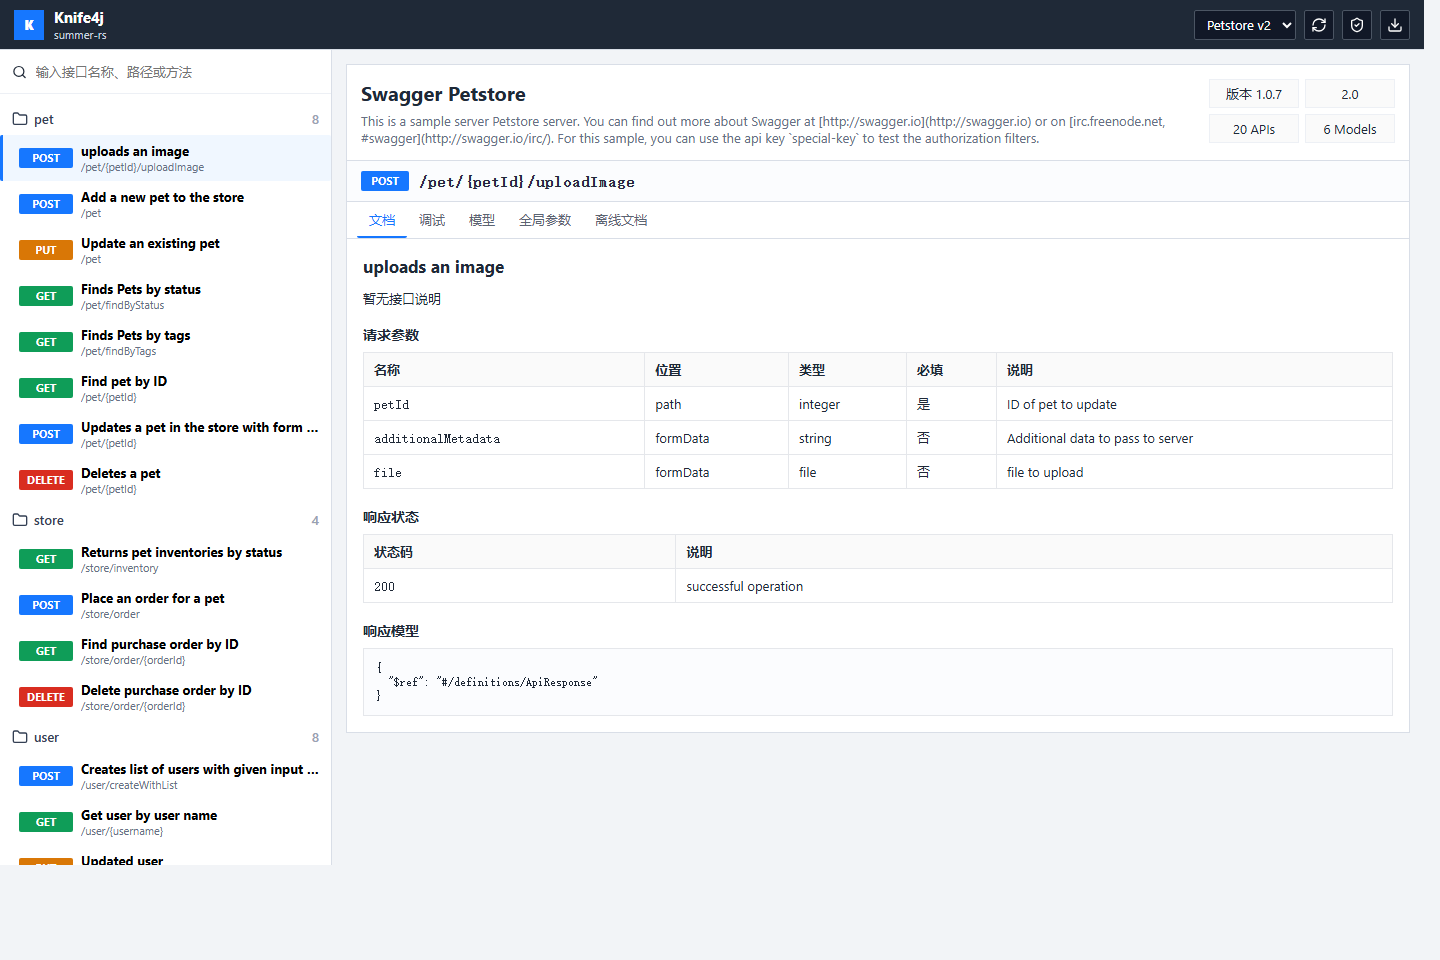
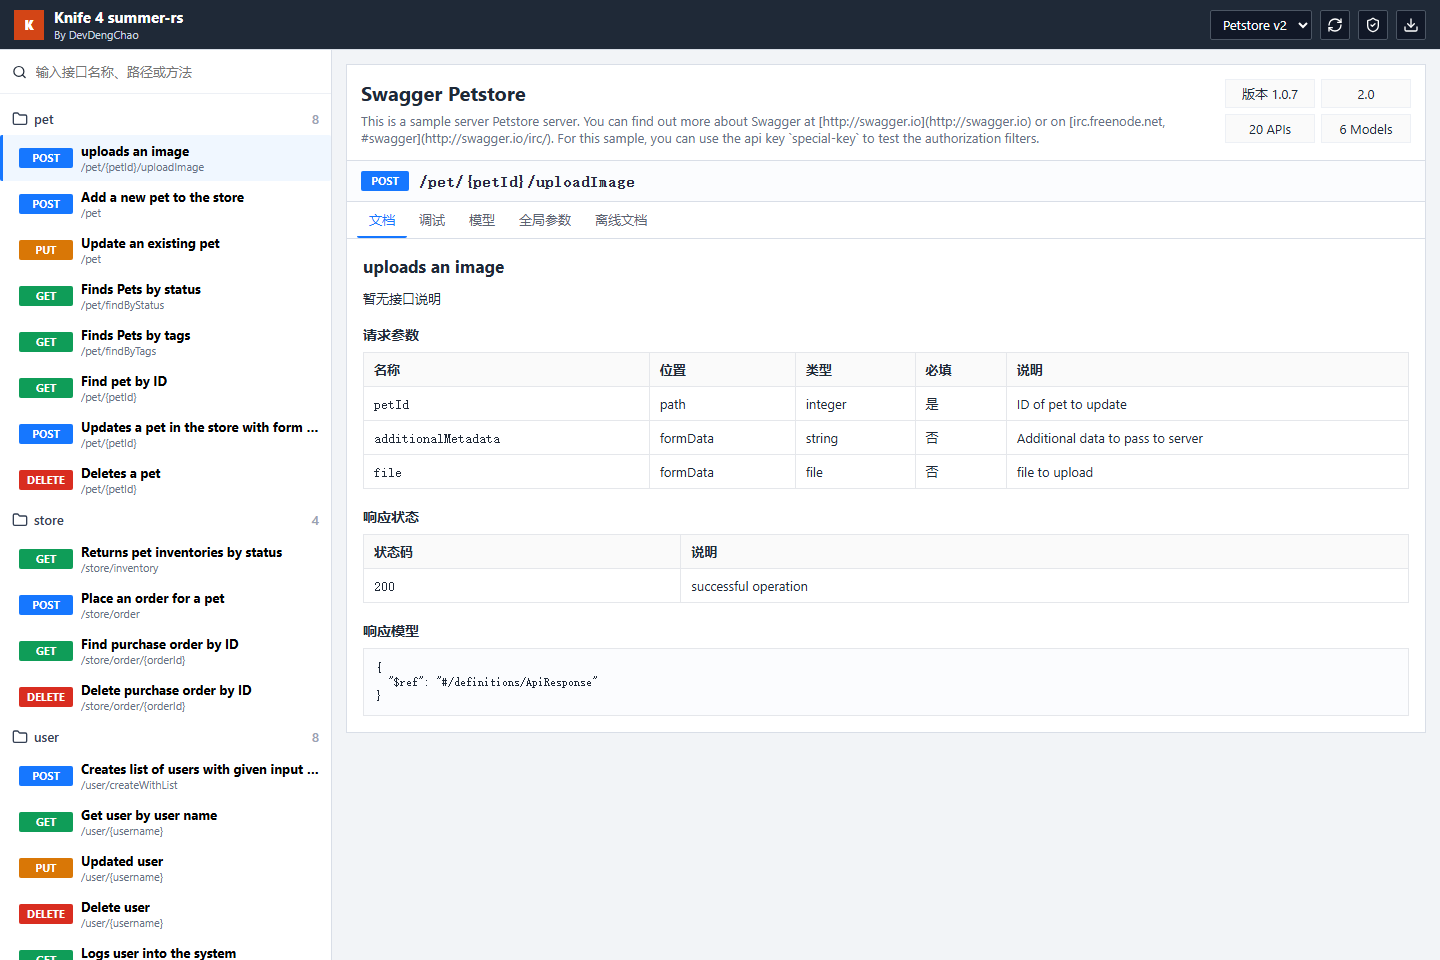
chore: refresh brand mark

diff --git a/assets/knife4j/_knife4j/entry.js b/assets/knife4j/_knife4j/entry.js
@@ -11230,7 +11230,7 @@ const revivers = [
   ["Ref", (data) => /* @__PURE__ */ ref(data)],
   ["Reactive", (data) => /* @__PURE__ */ reactive(data)]
 ];
-const revive_payload_client_huXL8waIjor8c2jpIkDYYHebko72rO3mF_tezPkF__A = /* @__PURE__ */ defineNuxtPlugin({
+const revive_payload_client_C65OzCNWnNx0WMS4opsUJLilFSaIDSgGsQ48mlVflRM = /* @__PURE__ */ defineNuxtPlugin({
   name: "nuxt:revive-payload:client",
   order: -30,
   async setup(nuxtApp) {
@@ -11468,7 +11468,7 @@ function createHead(options = {}) {
 const unheadOptions = {
   disableDefaults: true
 };
-const unhead_kZff8nTCfxHIMYD65YxHybOWSoPrAIW1uKXMBxlBcmM = /* @__PURE__ */ defineNuxtPlugin({
+const unhead_RzBWsUc4kAbuTLtCDj0Smj_9nxZhsnGdjqkaUaaPJ_k = /* @__PURE__ */ defineNuxtPlugin({
   name: "nuxt:head",
   enforce: "pre",
   setup(nuxtApp) {
@@ -13504,7 +13504,7 @@ const onNuxtReady = (callback) => {
     requestIdleCallback(() => callback());
   }
 };
-const navigation_repaint_client_d5bzCB1fhHYl2B39HPZD9V4JPnJZJShgwXqDuWhHE2s = /* @__PURE__ */ defineNuxtPlugin(() => {
+const navigation_repaint_client__dFBKtLwqa5hHnqNFKazhpcFc720TO73qAms8ECI5zY = /* @__PURE__ */ defineNuxtPlugin(() => {
   const router = useRouter();
   onNuxtReady(() => {
     router.beforeResolve(async () => {
@@ -13517,7 +13517,7 @@ const navigation_repaint_client_d5bzCB1fhHYl2B39HPZD9V4JPnJZJShgwXqDuWhHE2s = /*
     });
   });
 });
-const check_outdated_build_client_0fV_Na_HmZZENwkHS_PeWbjVFOBWywClNBbJNfQlw_o = /* @__PURE__ */ defineNuxtPlugin((nuxtApp) => {
+const check_outdated_build_client_okGd8NVwkUZotl4hIb2dR0_eggksvPWLEouHNoqALt4 = /* @__PURE__ */ defineNuxtPlugin((nuxtApp) => {
   let timeout;
   async function getLatestManifest() {
     let currentManifest;
@@ -13573,7 +13573,7 @@ function reloadNuxtApp(options = {}) {
     }
   }
 }
-const chunk_reload_client_h3mdx9Jjsj_WXuglLXoFmx6v_5DJKO9gBjvXhIYp9qQ = /* @__PURE__ */ defineNuxtPlugin({
+const chunk_reload_client_KPIgSuW8nlFz0ibHJZsfgHW2759AkJpafFG1yDUGspc = /* @__PURE__ */ defineNuxtPlugin({
   name: "nuxt:chunk-reload",
   setup(nuxtApp) {
     const router = useRouter();
@@ -13633,7 +13633,7 @@ async function preloadRouteComponents(to, router = useRouter()) {
   }
   await Promise.all(promises);
 }
-const prefetch_client_KGnXkp2ch2sTC2sjd9mqL39K3e4H619hWOzuMdNJDnc = /* @__PURE__ */ defineNuxtPlugin({
+const prefetch_client_eLReVWvo5VR6t_fEKzGr8sI0o_5tjnR8kcBKMS19kR8 = /* @__PURE__ */ defineNuxtPlugin({
   name: "nuxt:prefetch",
   setup(nuxtApp) {
     const router = useRouter();
@@ -13670,14 +13670,14 @@ const prefetch_client_KGnXkp2ch2sTC2sjd9mqL39K3e4H619hWOzuMdNJDnc = /* @__PURE__
 const unocss_6Z4vW7S9aX_q2svWbGBc_X2b5QbQdkNmvzr_3kqqCd0 = /* @__PURE__ */ defineNuxtPlugin(() => {
 });
 const plugins = [
-  revive_payload_client_huXL8waIjor8c2jpIkDYYHebko72rO3mF_tezPkF__A,
-  unhead_kZff8nTCfxHIMYD65YxHybOWSoPrAIW1uKXMBxlBcmM,
+  revive_payload_client_C65OzCNWnNx0WMS4opsUJLilFSaIDSgGsQ48mlVflRM,
+  unhead_RzBWsUc4kAbuTLtCDj0Smj_9nxZhsnGdjqkaUaaPJ_k,
   plugin,
-  navigation_repaint_client_d5bzCB1fhHYl2B39HPZD9V4JPnJZJShgwXqDuWhHE2s,
-  check_outdated_build_client_0fV_Na_HmZZENwkHS_PeWbjVFOBWywClNBbJNfQlw_o,
-  chunk_reload_client_h3mdx9Jjsj_WXuglLXoFmx6v_5DJKO9gBjvXhIYp9qQ,
+  navigation_repaint_client__dFBKtLwqa5hHnqNFKazhpcFc720TO73qAms8ECI5zY,
+  check_outdated_build_client_okGd8NVwkUZotl4hIb2dR0_eggksvPWLEouHNoqALt4,
+  chunk_reload_client_KPIgSuW8nlFz0ibHJZsfgHW2759AkJpafFG1yDUGspc,
   components_plugin_4kY4pyzJIYX99vmMAAIorFf3CnAaptHitJgf7JxiED8,
-  prefetch_client_KGnXkp2ch2sTC2sjd9mqL39K3e4H619hWOzuMdNJDnc,
+  prefetch_client_eLReVWvo5VR6t_fEKzGr8sI0o_5tjnR8kcBKMS19kR8,
   unocss_6Z4vW7S9aX_q2svWbGBc_X2b5QbQdkNmvzr_3kqqCd0
 ];
 const defineRouteProvider = (name = "RouteProvider") => /* @__PURE__ */ defineComponent({

diff --git a/frontend/components/Knife4jConsole.vue b/frontend/components/Knife4jConsole.vue
@@ -42,9 +42,14 @@ function downloadExport(kind: 'json' | 'markdown' | 'html' | 'word') {
     <header class="topbar">
       <div class="brand">
         <div class="brand-mark">K</div>
-        <div>
-          <strong>Knife4j</strong>
-          <span>summer-rs</span>
+        <div class="brand-copy">
+          <strong>Knife 4 summer-rs</strong>
+          <a
+            href="https://github.com/DevDengChao/knife-4-summer-rs"
+            target="_blank"
+            rel="noopener noreferrer"
+            >By DevDengChao</a
+          >
         </div>
       </div>
       <nav class="toolbar">
@@ -400,7 +405,7 @@ button {
   width: 30px;
   height: 30px;
   place-items: center;
-  background: #1677ff;
+  background: #d34516;
   font-weight: 800;
 }
 
@@ -409,10 +414,16 @@ button {
   font-size: 15px;
 }
 
-.brand span {
+.brand a {
   display: block;
   color: #cbd5e1;
   font-size: 11px;
+  text-decoration: none;
+}
+
+.brand a:hover {
+  color: #fff;
+  text-decoration: underline;
 }
 
 .toolbar {

diff --git a/frontend/tests/brand.test.ts b/frontend/tests/brand.test.ts
@@ -1,0 +1,21 @@
+import { readFileSync } from 'node:fs'
+import { describe, expect, it } from 'vitest'
+
+const componentSource = readFileSync(
+  new URL('../components/Knife4jConsole.vue', import.meta.url),
+  'utf8'
+)
+
+describe('Knife4j brand bar', () => {
+  it('shows the summer-rs brand and links the repository in a new window', () => {
+    expect(componentSource).toContain('<strong>Knife 4 summer-rs</strong>')
+    expect(componentSource).toContain('href="https://github.com/DevDengChao/knife-4-summer-rs"')
+    expect(componentSource).toContain('target="_blank"')
+    expect(componentSource).toContain('rel="noopener noreferrer"')
+    expect(componentSource).toMatch(/>\s*By DevDengChao\s*<\/a/)
+  })
+
+  it('uses the Rust orange brand color on the mark background', () => {
+    expect(componentSource).toContain('background: #d34516;')
+  })
+})

diff --git a/assets/knife4j/_knife4j/Knife4jConsole.js b/assets/knife4j/_knife4j/Knife4jConsole.js
@@ -622,9 +622,13 @@ const _sfc_main = /* @__PURE__ */ defineComponent({
         createBaseVNode("header", _hoisted_2, [
           _cache[17] || (_cache[17] = createBaseVNode("div", { class: "brand" }, [
             createBaseVNode("div", { class: "brand-mark" }, "K"),
-            createBaseVNode("div", null, [
-              createBaseVNode("strong", null, "Knife4j"),
-              createBaseVNode("span", null, "summer-rs")
+            createBaseVNode("div", { class: "brand-copy" }, [
+              createBaseVNode("strong", null, "Knife 4 summer-rs"),
+              createBaseVNode("a", {
+                href: "https://github.com/DevDengChao/knife-4-summer-rs",
+                target: "_blank",
+                rel: "noopener noreferrer"
+              }, "By DevDengChao")
             ])
           ], -1)),
           createBaseVNode("nav", _hoisted_3, [

diff --git a/assets/knife4j/_knife4j/Knife4jConsole.css b/assets/knife4j/_knife4j/Knife4jConsole.css
@@ -1,1 +1,1 @@
-.method-badge[data-v-c10db21f]{align-items:center;border-radius:2px;color:#fff;display:inline-flex;font-size:11px;font-weight:700;height:20px;justify-content:center;line-height:20px;min-width:48px}.method-get[data-v-c10db21f]{background:#0f9d58}.method-post[data-v-c10db21f]{background:#1677ff}.method-put[data-v-c10db21f]{background:#d97706}.method-delete[data-v-c10db21f]{background:#d92d20}.method-patch[data-v-c10db21f]{background:#7c3aed}.method-head[data-v-c10db21f],.method-options[data-v-c10db21f],.method-trace[data-v-c10db21f]{background:#475467}.schema-table-wrap[data-v-071ab5d7]{border:1px solid #e5e7eb;overflow:auto}.schema-table[data-v-071ab5d7]{border-collapse:collapse;font-size:13px;width:100%}.schema-table td[data-v-071ab5d7],.schema-table th[data-v-071ab5d7]{border-bottom:1px solid #e5e7eb;padding:8px 10px;text-align:left;vertical-align:top}.schema-table th[data-v-071ab5d7]{background:#fafafa;color:#344054;font-weight:600}.schema-empty[data-v-071ab5d7]{background:#fbfcfe;border:1px solid #e5e7eb;font-size:12px;margin:0;overflow:auto;padding:12px}#__nuxt,body,html{height:100%;margin:0}body{background:#f2f4f7;color:#1f2937;font-family:-apple-system,BlinkMacSystemFont,Segoe UI,Microsoft YaHei,sans-serif;font-size:13px;letter-spacing:0}button,input,select,textarea{border-radius:2px;font:inherit}button{cursor:pointer}.knife-shell{display:grid;grid-template-areas:"topbar topbar" "sidebar content";grid-template-columns:332px minmax(0,1fr);grid-template-rows:50px minmax(0,1fr);height:100%}.topbar{background:#1f2937;border-bottom:1px solid #d9dee7;color:#fff;grid-area:topbar;justify-content:space-between;padding:0 14px}.brand,.topbar{align-items:center;display:flex}.brand{gap:10px}.brand-mark{background:#1677ff;display:grid;font-weight:800;height:30px;place-items:center;width:30px}.brand strong{display:block;font-size:15px}.brand span{color:#cbd5e1;display:block;font-size:11px}.toolbar{align-items:center;display:flex;gap:8px}.group-select{background:#111827;border:1px solid #4b5563;color:#fff;height:30px;padding:0 8px}.icon-button{background:#111827;border:1px solid #4b5563;color:#fff;display:grid;height:30px;place-items:center;width:30px}.sidebar{background:#fff;border-right:1px solid #d9dee7;grid-area:sidebar;min-height:0}.search-wrap{align-items:center;border-bottom:1px solid #edf0f5;display:flex;gap:7px;height:43px;padding:0 12px}.search-wrap input{border:0;outline:none;width:100%}.sidebar-scroll{height:calc(100% - 44px);overflow:auto;padding:8px 0}.tag-title{align-items:center;color:#344054;display:flex;font-weight:600;gap:6px;padding:8px 12px}.tag-title em{color:#98a2b3;font-style:normal;margin-left:auto}.operation-link{align-items:center;background:#fff;border:0;border-left:3px solid transparent;display:grid;gap:8px;grid-template-columns:54px minmax(0,1fr);padding:7px 10px 7px 16px;text-align:left;width:100%}.operation-link.active,.operation-link:hover{background:#f0f7ff;border-left-color:#1677ff}.operation-text{min-width:0}.operation-text small,.operation-text strong{display:block;overflow:hidden;text-overflow:ellipsis;white-space:nowrap}.operation-text small{color:#667085}.content{grid-area:content;min-height:0;min-width:0;overflow:auto;padding:14px}.state-box{align-items:center;background:#fff;border:1px solid #d9dee7;display:flex;gap:8px;padding:16px}.state-box.error{border-color:#fda29b;color:#b42318}.spin{animation:spin 1s linear infinite}.api-summary{align-items:flex-start;background:#fff;border:1px solid #d9dee7;display:flex;justify-content:space-between;padding:14px}.api-summary h1{font-size:20px;margin:0 0 6px}.api-summary p{color:#667085;margin:0}.meta-grid{display:grid;gap:6px;grid-template-columns:repeat(2,minmax(90px,1fr))}.meta-grid span{background:#fafafa;border:1px solid #edf0f5;padding:5px 8px;text-align:center}.operation-head{align-items:center;background:#fbfcfe;border:1px solid #d9dee7;border-top:0;display:flex;gap:10px;padding:10px 14px}.operation-head code{font-size:15px;font-weight:600}.deprecated{background:#fff1f3;color:#c01048;padding:2px 6px}.tabs{display:flex;padding:0 10px}.panel,.tabs{background:#fff;border:1px solid #d9dee7;border-top:0}.panel{padding:16px}.panel h2{font-size:17px;margin:0 0 8px}.panel h3{font-size:14px;margin:18px 0 8px}.data-table{border-collapse:collapse;width:100%}.data-table td,.data-table th{border:1px solid #e5e7eb;padding:8px 10px;text-align:left;vertical-align:top}.data-table th{background:#fafafa}.debug-panel{display:grid;gap:12px;grid-template-columns:minmax(0,1fr) 280px}.debug-url{display:flex;gap:8px;grid-column:1/2}.debug-url input{flex:1}.debug-params{display:grid;gap:8px}.debug-params h3{margin:0}.debug-param-row{align-items:center;display:grid;gap:8px;grid-template-columns:64px minmax(80px,160px) minmax(0,1fr)}.debug-param-row span{color:#667085;text-transform:uppercase}.request-editor{border:1px solid #d9d9d9;font-family:Cascadia Code,Consolas,monospace;min-height:180px;padding:10px;resize:vertical}.response-box{border:1px solid #d9dee7;overflow:hidden}.response-head{background:#f9fafb;display:flex;justify-content:space-between;padding:8px 10px}.response-box pre{font-family:Cascadia Code,Consolas,monospace;margin:0;max-height:260px;overflow:auto;padding:10px;white-space:pre-wrap}.history-list{border-left:1px solid #edf0f5;grid-column:2;grid-row:1/span 3;padding-left:12px}.history-list div{border-bottom:1px solid #edf0f5;display:grid;gap:6px;grid-template-columns:48px 44px minmax(0,1fr);padding:7px 0}.history-list small{overflow:hidden;text-overflow:ellipsis;white-space:nowrap}.export-grid,.model-list{display:flex;flex-wrap:wrap;gap:8px;margin-bottom:14px}.export-action,.model-pill{background:#fbfcfe;border:1px solid #d9dee7;padding:8px 10px}.model-pill.active{background:#f0f7ff;border-color:#1677ff;color:#0958d9}.settings-grid{display:grid;gap:20px;grid-template-columns:repeat(2,minmax(0,1fr))}.setting-row{align-items:center;display:grid;gap:8px;grid-template-columns:22px minmax(90px,130px) minmax(0,1fr);margin-bottom:8px}.settings-grid>div:nth-child(2) .setting-row{grid-template-columns:22px 90px minmax(90px,1fr) minmax(0,1fr)}@keyframes spin{to{transform:rotate(1turn)}}@media (max-width:860px){.knife-shell{grid-template-areas:"topbar" "content";grid-template-columns:1fr}.sidebar{display:none}.api-summary,.debug-panel,.settings-grid{display:block}.history-list{border-left:0;padding-left:0}}
+.method-badge[data-v-c10db21f]{align-items:center;border-radius:2px;color:#fff;display:inline-flex;font-size:11px;font-weight:700;height:20px;justify-content:center;line-height:20px;min-width:48px}.method-get[data-v-c10db21f]{background:#0f9d58}.method-post[data-v-c10db21f]{background:#1677ff}.method-put[data-v-c10db21f]{background:#d97706}.method-delete[data-v-c10db21f]{background:#d92d20}.method-patch[data-v-c10db21f]{background:#7c3aed}.method-head[data-v-c10db21f],.method-options[data-v-c10db21f],.method-trace[data-v-c10db21f]{background:#475467}.schema-table-wrap[data-v-071ab5d7]{border:1px solid #e5e7eb;overflow:auto}.schema-table[data-v-071ab5d7]{border-collapse:collapse;font-size:13px;width:100%}.schema-table td[data-v-071ab5d7],.schema-table th[data-v-071ab5d7]{border-bottom:1px solid #e5e7eb;padding:8px 10px;text-align:left;vertical-align:top}.schema-table th[data-v-071ab5d7]{background:#fafafa;color:#344054;font-weight:600}.schema-empty[data-v-071ab5d7]{background:#fbfcfe;border:1px solid #e5e7eb;font-size:12px;margin:0;overflow:auto;padding:12px}#__nuxt,body,html{height:100%;margin:0}body{background:#f2f4f7;color:#1f2937;font-family:-apple-system,BlinkMacSystemFont,Segoe UI,Microsoft YaHei,sans-serif;font-size:13px;letter-spacing:0}button,input,select,textarea{border-radius:2px;font:inherit}button{cursor:pointer}.knife-shell{display:grid;grid-template-areas:"topbar topbar" "sidebar content";grid-template-columns:332px minmax(0,1fr);grid-template-rows:50px minmax(0,1fr);height:100%}.topbar{background:#1f2937;border-bottom:1px solid #d9dee7;color:#fff;grid-area:topbar;justify-content:space-between;padding:0 14px}.brand,.topbar{align-items:center;display:flex}.brand{gap:10px}.brand-mark{background:#d34516;display:grid;font-weight:800;height:30px;place-items:center;width:30px}.brand strong{display:block;font-size:15px}.brand a{color:#cbd5e1;display:block;font-size:11px;text-decoration:none}.brand a:hover{color:#fff;text-decoration:underline}.toolbar{align-items:center;display:flex;gap:8px}.group-select{background:#111827;border:1px solid #4b5563;color:#fff;height:30px;padding:0 8px}.icon-button{background:#111827;border:1px solid #4b5563;color:#fff;display:grid;height:30px;place-items:center;width:30px}.sidebar{background:#fff;border-right:1px solid #d9dee7;grid-area:sidebar;min-height:0}.search-wrap{align-items:center;border-bottom:1px solid #edf0f5;display:flex;gap:7px;height:43px;padding:0 12px}.search-wrap input{border:0;outline:none;width:100%}.sidebar-scroll{height:calc(100% - 44px);overflow:auto;padding:8px 0}.tag-title{align-items:center;color:#344054;display:flex;font-weight:600;gap:6px;padding:8px 12px}.tag-title em{color:#98a2b3;font-style:normal;margin-left:auto}.operation-link{align-items:center;background:#fff;border:0;border-left:3px solid transparent;display:grid;gap:8px;grid-template-columns:54px minmax(0,1fr);padding:7px 10px 7px 16px;text-align:left;width:100%}.operation-link.active,.operation-link:hover{background:#f0f7ff;border-left-color:#1677ff}.operation-text{min-width:0}.operation-text small,.operation-text strong{display:block;overflow:hidden;text-overflow:ellipsis;white-space:nowrap}.operation-text small{color:#667085}.content{grid-area:content;min-height:0;min-width:0;overflow:auto;padding:14px}.state-box{align-items:center;background:#fff;border:1px solid #d9dee7;display:flex;gap:8px;padding:16px}.state-box.error{border-color:#fda29b;color:#b42318}.spin{animation:spin 1s linear infinite}.api-summary{align-items:flex-start;background:#fff;border:1px solid #d9dee7;display:flex;justify-content:space-between;padding:14px}.api-summary h1{font-size:20px;margin:0 0 6px}.api-summary p{color:#667085;margin:0}.meta-grid{display:grid;gap:6px;grid-template-columns:repeat(2,minmax(90px,1fr))}.meta-grid span{background:#fafafa;border:1px solid #edf0f5;padding:5px 8px;text-align:center}.operation-head{align-items:center;background:#fbfcfe;border:1px solid #d9dee7;border-top:0;display:flex;gap:10px;padding:10px 14px}.operation-head code{font-size:15px;font-weight:600}.deprecated{background:#fff1f3;color:#c01048;padding:2px 6px}.tabs{display:flex;padding:0 10px}.panel,.tabs{background:#fff;border:1px solid #d9dee7;border-top:0}.panel{padding:16px}.panel h2{font-size:17px;margin:0 0 8px}.panel h3{font-size:14px;margin:18px 0 8px}.data-table{border-collapse:collapse;width:100%}.data-table td,.data-table th{border:1px solid #e5e7eb;padding:8px 10px;text-align:left;vertical-align:top}.data-table th{background:#fafafa}.debug-panel{display:grid;gap:12px;grid-template-columns:minmax(0,1fr) 280px}.debug-url{display:flex;gap:8px;grid-column:1/2}.debug-url input{flex:1}.debug-params{display:grid;gap:8px}.debug-params h3{margin:0}.debug-param-row{align-items:center;display:grid;gap:8px;grid-template-columns:64px minmax(80px,160px) minmax(0,1fr)}.debug-param-row span{color:#667085;text-transform:uppercase}.request-editor{border:1px solid #d9d9d9;font-family:Cascadia Code,Consolas,monospace;min-height:180px;padding:10px;resize:vertical}.response-box{border:1px solid #d9dee7;overflow:hidden}.response-head{background:#f9fafb;display:flex;justify-content:space-between;padding:8px 10px}.response-box pre{font-family:Cascadia Code,Consolas,monospace;margin:0;max-height:260px;overflow:auto;padding:10px;white-space:pre-wrap}.history-list{border-left:1px solid #edf0f5;grid-column:2;grid-row:1/span 3;padding-left:12px}.history-list div{border-bottom:1px solid #edf0f5;display:grid;gap:6px;grid-template-columns:48px 44px minmax(0,1fr);padding:7px 0}.history-list small{overflow:hidden;text-overflow:ellipsis;white-space:nowrap}.export-grid,.model-list{display:flex;flex-wrap:wrap;gap:8px;margin-bottom:14px}.export-action,.model-pill{background:#fbfcfe;border:1px solid #d9dee7;padding:8px 10px}.model-pill.active{background:#f0f7ff;border-color:#1677ff;color:#0958d9}.settings-grid{display:grid;gap:20px;grid-template-columns:repeat(2,minmax(0,1fr))}.setting-row{align-items:center;display:grid;gap:8px;grid-template-columns:22px minmax(90px,130px) minmax(0,1fr);margin-bottom:8px}.settings-grid>div:nth-child(2) .setting-row{grid-template-columns:22px 90px minmax(90px,1fr) minmax(0,1fr)}@keyframes spin{to{transform:rotate(1turn)}}@media (max-width:860px){.knife-shell{grid-template-areas:"topbar" "content";grid-template-columns:1fr}.sidebar{display:none}.api-summary,.debug-panel,.settings-grid{display:block}.history-list{border-left:0;padding-left:0}}

diff --git a/assets/knife4j/_knife4j/error-404.css b/assets/knife4j/_knife4j/error-404.css
@@ -1,1 +1,1 @@
-.grid[data-v-ca48caf0]{display:grid}.mb-2[data-v-ca48caf0]{margin-bottom:.5rem}.mb-4[data-v-ca48caf0]{margin-bottom:1rem}.max-w-520px[data-v-ca48caf0]{max-width:520px}.min-h-screen[data-v-ca48caf0]{min-height:100vh}.w-full[data-v-ca48caf0]{width:100%}.flex[data-v-ca48caf0]{display:flex}.place-content-center[data-v-ca48caf0]{place-content:center}.items-center[data-v-ca48caf0]{align-items:center}.justify-center[data-v-ca48caf0]{justify-content:center}.overflow-hidden[data-v-ca48caf0]{overflow:hidden}.bg-white[data-v-ca48caf0]{--un-bg-opacity:1;background-color:rgb(255 255 255/var(--un-bg-opacity))}.px-2[data-v-ca48caf0]{padding-left:.5rem;padding-right:.5rem}.text-center[data-v-ca48caf0]{text-align:center}.text-\[80px\][data-v-ca48caf0]{font-size:80px}.text-2xl[data-v-ca48caf0]{font-size:1.5rem;line-height:2rem}.text-sm[data-v-ca48caf0]{font-size:.875rem;line-height:1.25rem}.text-\[\#020420\][data-v-ca48caf0]{--un-text-opacity:1;color:rgb(2 4 32/var(--un-text-opacity))}.text-\[\#64748B\][data-v-ca48caf0]{--un-text-opacity:1;color:rgb(100 116 139/var(--un-text-opacity))}.hover\:text-\[\#00DC82\][data-v-ca48caf0]:hover{--un-text-opacity:1;color:rgb(0 220 130/var(--un-text-opacity))}.font-medium[data-v-ca48caf0]{font-weight:500}.font-semibold[data-v-ca48caf0]{font-weight:600}.leading-none[data-v-ca48caf0]{line-height:1}.tracking-wide[data-v-ca48caf0]{letter-spacing:.025em}.font-sans[data-v-ca48caf0]{font-family:ui-sans-serif,system-ui,-apple-system,BlinkMacSystemFont,Segoe UI,Roboto,Helvetica Neue,Arial,Noto Sans,sans-serif,Apple Color Emoji,Segoe UI Emoji,Segoe UI Symbol,Noto Color Emoji}.tabular-nums[data-v-ca48caf0]{--un-numeric-spacing:tabular-nums;font-variant-numeric:var(--un-ordinal) var(--un-slashed-zero) var(--un-numeric-figure) var(--un-numeric-spacing) var(--un-numeric-fraction)}.underline[data-v-ca48caf0]{text-decoration-line:underline}.underline-offset-3[data-v-ca48caf0]{text-underline-offset:3px}.antialiased[data-v-ca48caf0]{-webkit-font-smoothing:antialiased;-moz-osx-font-smoothing:grayscale}@media(prefers-color-scheme:dark){.dark\:bg-\[\#020420\][data-v-ca48caf0]{--un-bg-opacity:1;background-color:rgb(2 4 32/var(--un-bg-opacity))}.dark\:text-white[data-v-ca48caf0]{--un-text-opacity:1;color:rgb(255 255 255/var(--un-text-opacity))}}@media(min-width:640px){.sm\:text-\[110px\][data-v-ca48caf0]{font-size:110px}.sm\:text-3xl[data-v-ca48caf0]{font-size:1.875rem;line-height:2.25rem}}
+.grid[data-v-08c7e506]{display:grid}.mb-2[data-v-08c7e506]{margin-bottom:.5rem}.mb-4[data-v-08c7e506]{margin-bottom:1rem}.max-w-520px[data-v-08c7e506]{max-width:520px}.min-h-screen[data-v-08c7e506]{min-height:100vh}.w-full[data-v-08c7e506]{width:100%}.flex[data-v-08c7e506]{display:flex}.place-content-center[data-v-08c7e506]{place-content:center}.items-center[data-v-08c7e506]{align-items:center}.justify-center[data-v-08c7e506]{justify-content:center}.overflow-hidden[data-v-08c7e506]{overflow:hidden}.bg-white[data-v-08c7e506]{--un-bg-opacity:1;background-color:rgb(255 255 255/var(--un-bg-opacity))}.px-2[data-v-08c7e506]{padding-left:.5rem;padding-right:.5rem}.text-center[data-v-08c7e506]{text-align:center}.text-\[80px\][data-v-08c7e506]{font-size:80px}.text-2xl[data-v-08c7e506]{font-size:1.5rem;line-height:2rem}.text-sm[data-v-08c7e506]{font-size:.875rem;line-height:1.25rem}.text-\[\#020420\][data-v-08c7e506]{--un-text-opacity:1;color:rgb(2 4 32/var(--un-text-opacity))}.text-\[\#64748B\][data-v-08c7e506]{--un-text-opacity:1;color:rgb(100 116 139/var(--un-text-opacity))}.hover\:text-\[\#00DC82\][data-v-08c7e506]:hover{--un-text-opacity:1;color:rgb(0 220 130/var(--un-text-opacity))}.font-medium[data-v-08c7e506]{font-weight:500}.font-semibold[data-v-08c7e506]{font-weight:600}.leading-none[data-v-08c7e506]{line-height:1}.tracking-wide[data-v-08c7e506]{letter-spacing:.025em}.font-sans[data-v-08c7e506]{font-family:ui-sans-serif,system-ui,-apple-system,BlinkMacSystemFont,Segoe UI,Roboto,Helvetica Neue,Arial,Noto Sans,sans-serif,Apple Color Emoji,Segoe UI Emoji,Segoe UI Symbol,Noto Color Emoji}.tabular-nums[data-v-08c7e506]{--un-numeric-spacing:tabular-nums;font-variant-numeric:var(--un-ordinal) var(--un-slashed-zero) var(--un-numeric-figure) var(--un-numeric-spacing) var(--un-numeric-fraction)}.underline[data-v-08c7e506]{text-decoration-line:underline}.underline-offset-3[data-v-08c7e506]{text-underline-offset:3px}.antialiased[data-v-08c7e506]{-webkit-font-smoothing:antialiased;-moz-osx-font-smoothing:grayscale}@media(prefers-color-scheme:dark){.dark\:bg-\[\#020420\][data-v-08c7e506]{--un-bg-opacity:1;background-color:rgb(2 4 32/var(--un-bg-opacity))}.dark\:text-white[data-v-08c7e506]{--un-text-opacity:1;color:rgb(255 255 255/var(--un-text-opacity))}}@media(min-width:640px){.sm\:text-\[110px\][data-v-08c7e506]{font-size:110px}.sm\:text-3xl[data-v-08c7e506]{font-size:1.875rem;line-height:2.25rem}}

diff --git a/assets/knife4j/_knife4j/error-404.js b/assets/knife4j/_knife4j/error-404.js
@@ -462,7 +462,7 @@ const _sfc_main = {
     };
   }
 };
-const error404 = /* @__PURE__ */ _export_sfc(_sfc_main, [["__scopeId", "data-v-ca48caf0"]]);
+const error404 = /* @__PURE__ */ _export_sfc(_sfc_main, [["__scopeId", "data-v-08c7e506"]]);
 export {
   error404 as default
 };

diff --git a/assets/knife4j/_knife4j/error-500.css b/assets/knife4j/_knife4j/error-500.css
@@ -1,1 +1,1 @@
-.grid[data-v-a70264fd]{display:grid}.mb-2[data-v-a70264fd]{margin-bottom:.5rem}.mb-4[data-v-a70264fd]{margin-bottom:1rem}.max-w-520px[data-v-a70264fd]{max-width:520px}.min-h-screen[data-v-a70264fd]{min-height:100vh}.place-content-center[data-v-a70264fd]{place-content:center}.overflow-hidden[data-v-a70264fd]{overflow:hidden}.bg-white[data-v-a70264fd]{--un-bg-opacity:1;background-color:rgb(255 255 255/var(--un-bg-opacity))}.px-2[data-v-a70264fd]{padding-left:.5rem;padding-right:.5rem}.text-center[data-v-a70264fd]{text-align:center}.text-\[80px\][data-v-a70264fd]{font-size:80px}.text-2xl[data-v-a70264fd]{font-size:1.5rem;line-height:2rem}.text-\[\#020420\][data-v-a70264fd]{--un-text-opacity:1;color:rgb(2 4 32/var(--un-text-opacity))}.text-\[\#64748B\][data-v-a70264fd]{--un-text-opacity:1;color:rgb(100 116 139/var(--un-text-opacity))}.font-semibold[data-v-a70264fd]{font-weight:600}.leading-none[data-v-a70264fd]{line-height:1}.tracking-wide[data-v-a70264fd]{letter-spacing:.025em}.font-sans[data-v-a70264fd]{font-family:ui-sans-serif,system-ui,-apple-system,BlinkMacSystemFont,Segoe UI,Roboto,Helvetica Neue,Arial,Noto Sans,sans-serif,Apple Color Emoji,Segoe UI Emoji,Segoe UI Symbol,Noto Color Emoji}.tabular-nums[data-v-a70264fd]{--un-numeric-spacing:tabular-nums;font-variant-numeric:var(--un-ordinal) var(--un-slashed-zero) var(--un-numeric-figure) var(--un-numeric-spacing) var(--un-numeric-fraction)}.antialiased[data-v-a70264fd]{-webkit-font-smoothing:antialiased;-moz-osx-font-smoothing:grayscale}@media(prefers-color-scheme:dark){.dark\:bg-\[\#020420\][data-v-a70264fd]{--un-bg-opacity:1;background-color:rgb(2 4 32/var(--un-bg-opacity))}.dark\:text-white[data-v-a70264fd]{--un-text-opacity:1;color:rgb(255 255 255/var(--un-text-opacity))}}@media(min-width:640px){.sm\:text-\[110px\][data-v-a70264fd]{font-size:110px}.sm\:text-3xl[data-v-a70264fd]{font-size:1.875rem;line-height:2.25rem}}
+.grid[data-v-a266f282]{display:grid}.mb-2[data-v-a266f282]{margin-bottom:.5rem}.mb-4[data-v-a266f282]{margin-bottom:1rem}.max-w-520px[data-v-a266f282]{max-width:520px}.min-h-screen[data-v-a266f282]{min-height:100vh}.place-content-center[data-v-a266f282]{place-content:center}.overflow-hidden[data-v-a266f282]{overflow:hidden}.bg-white[data-v-a266f282]{--un-bg-opacity:1;background-color:rgb(255 255 255/var(--un-bg-opacity))}.px-2[data-v-a266f282]{padding-left:.5rem;padding-right:.5rem}.text-center[data-v-a266f282]{text-align:center}.text-\[80px\][data-v-a266f282]{font-size:80px}.text-2xl[data-v-a266f282]{font-size:1.5rem;line-height:2rem}.text-\[\#020420\][data-v-a266f282]{--un-text-opacity:1;color:rgb(2 4 32/var(--un-text-opacity))}.text-\[\#64748B\][data-v-a266f282]{--un-text-opacity:1;color:rgb(100 116 139/var(--un-text-opacity))}.font-semibold[data-v-a266f282]{font-weight:600}.leading-none[data-v-a266f282]{line-height:1}.tracking-wide[data-v-a266f282]{letter-spacing:.025em}.font-sans[data-v-a266f282]{font-family:ui-sans-serif,system-ui,-apple-system,BlinkMacSystemFont,Segoe UI,Roboto,Helvetica Neue,Arial,Noto Sans,sans-serif,Apple Color Emoji,Segoe UI Emoji,Segoe UI Symbol,Noto Color Emoji}.tabular-nums[data-v-a266f282]{--un-numeric-spacing:tabular-nums;font-variant-numeric:var(--un-ordinal) var(--un-slashed-zero) var(--un-numeric-figure) var(--un-numeric-spacing) var(--un-numeric-fraction)}.antialiased[data-v-a266f282]{-webkit-font-smoothing:antialiased;-moz-osx-font-smoothing:grayscale}@media(prefers-color-scheme:dark){.dark\:bg-\[\#020420\][data-v-a266f282]{--un-bg-opacity:1;background-color:rgb(2 4 32/var(--un-bg-opacity))}.dark\:text-white[data-v-a266f282]{--un-text-opacity:1;color:rgb(255 255 255/var(--un-text-opacity))}}@media(min-width:640px){.sm\:text-\[110px\][data-v-a266f282]{font-size:110px}.sm\:text-3xl[data-v-a266f282]{font-size:1.875rem;line-height:2.25rem}}

diff --git a/assets/knife4j/_knife4j/error-500.js b/assets/knife4j/_knife4j/error-500.js
@@ -64,7 +64,7 @@ const _sfc_main = {
     };
   }
 };
-const error500 = /* @__PURE__ */ _export_sfc(_sfc_main, [["__scopeId", "data-v-a70264fd"]]);
+const error500 = /* @__PURE__ */ _export_sfc(_sfc_main, [["__scopeId", "data-v-a266f282"]]);
 export {
   error500 as default
 };